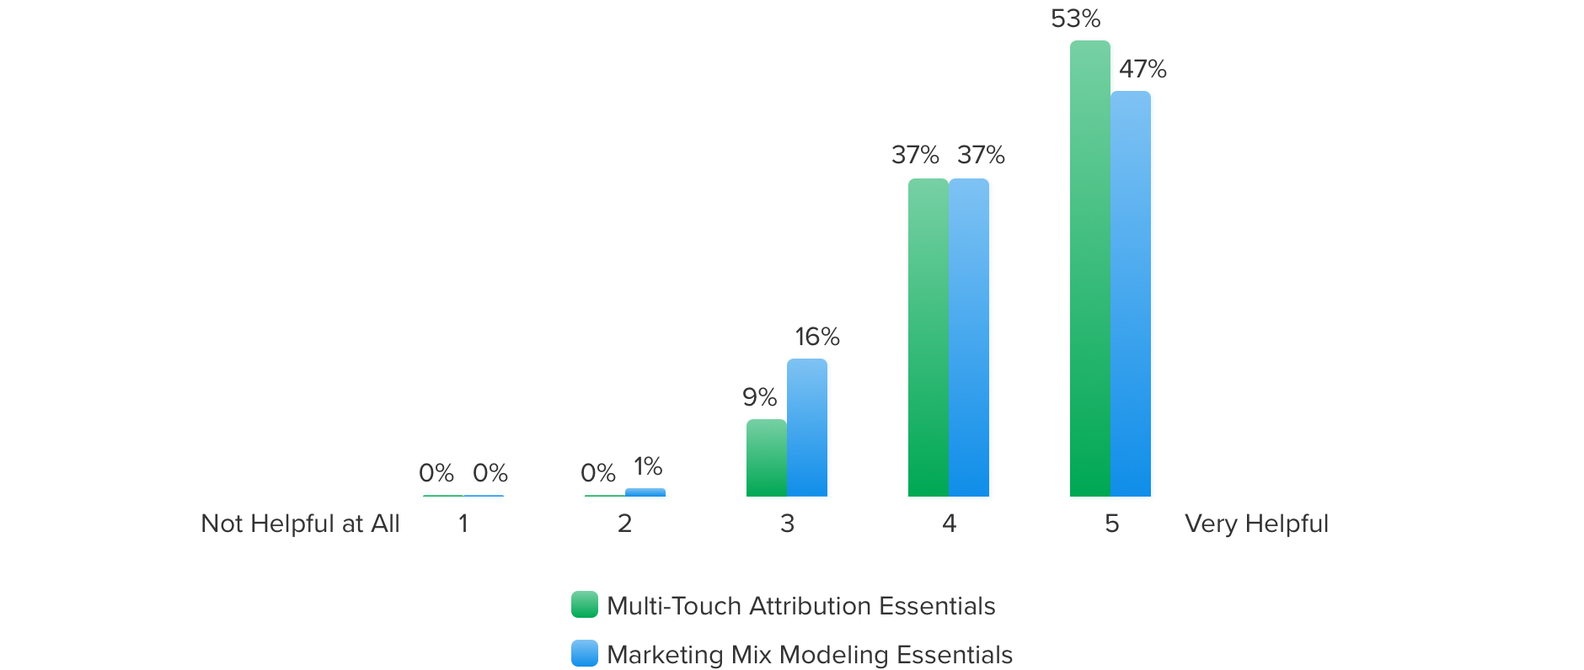
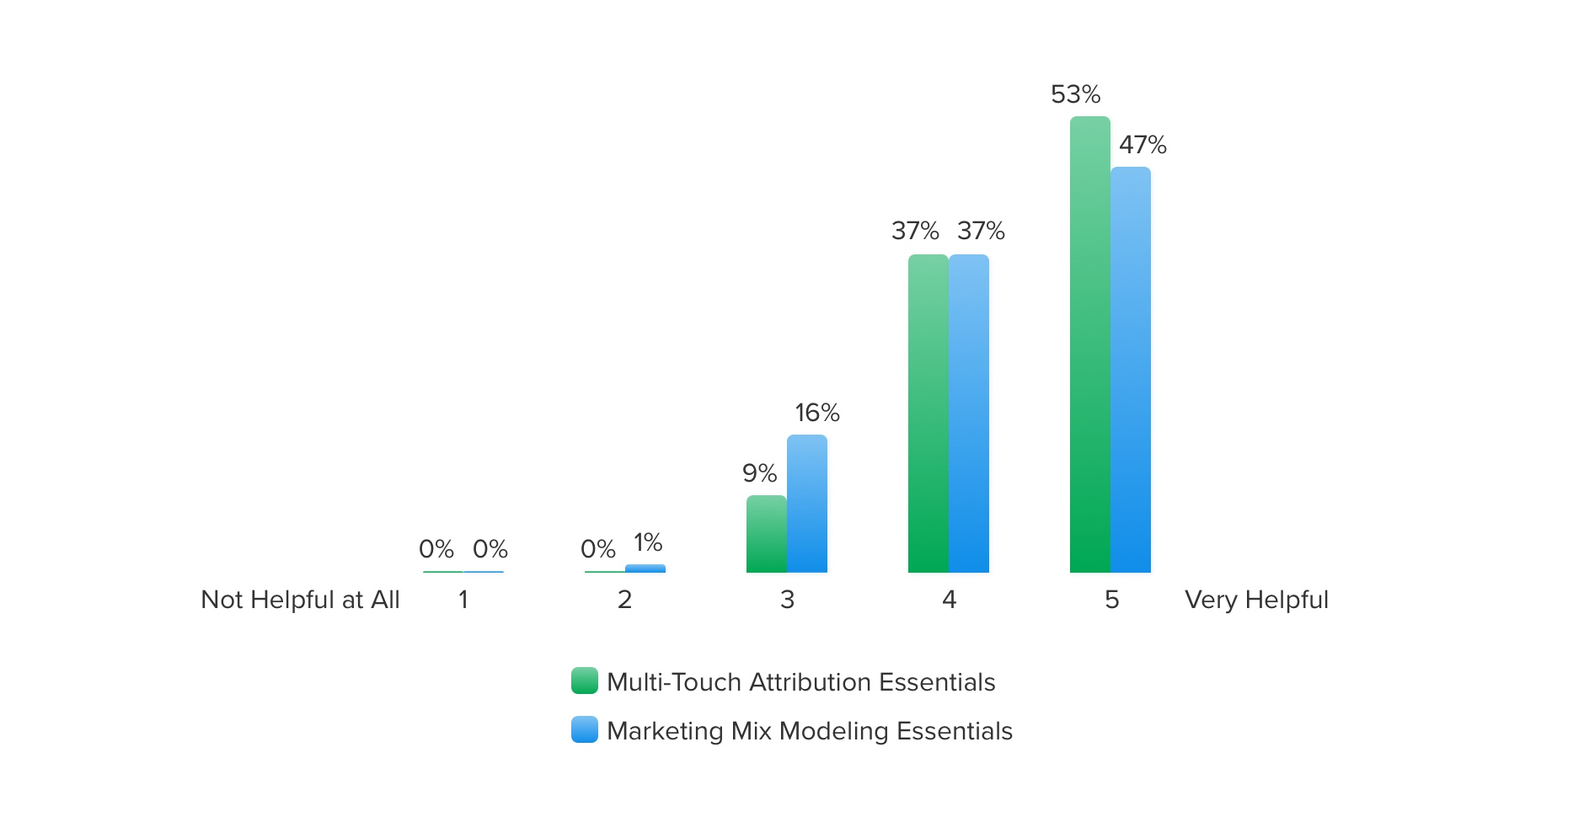
All-sans Linear type scale; Neustar survey accordion
- Back to Timeless Sans for every title (serif trial dropped)
- Text roles follow Linear's tokens: 600 titles, 18px leads, 12px meta
  labels over 14px values
- Accordion rows can reveal an image; Neustar Academy survey questions
  open to their charts (charts padded top and bottom)
- "AI native vision" card label

diff --git a/src/App.css b/src/App.css
@@ -217,12 +217,9 @@ html, body, #root { width: 100%; height: 100%; overflow: hidden; font-family: va
 
 .preloader-text {
   color: var(--ink);
-  /* The opening line is set like the titles: Timeless Serif, Text style. */
-  font-family: var(--font-serif);
-  font-variation-settings: "STYL" 100;
   font-size: 16px;
   font-weight: 500;
-  letter-spacing: -0.005em;
+  letter-spacing: -0.01em;
   text-align: center;
   opacity: 0;
   filter: blur(10px);
@@ -604,7 +601,7 @@ a:focus-visible,
 }
 .project-header h1 {
   font-family: var(--font-sans); font-size: clamp(32px, 3.5vw, 40px);
-  font-weight: 590; letter-spacing: -0.022em; line-height: 1.125; margin-bottom: 14px;
+  font-weight: 600; letter-spacing: -1px; line-height: 1.15; margin-bottom: 16px;
 }
 .project-tagline {
   font-family: var(--font-sans); font-size: 1.125rem;
@@ -620,15 +617,17 @@ a:focus-visible,
   grid-column: 1; min-width: 0;
 }
 .meta-item  { display: flex; flex-direction: column; gap: 5px; }
-.meta-label { font-family: var(--font-sans); font-size: 10px; font-weight: 700; text-transform: uppercase; letter-spacing: 0.5px; color: var(--ink-tertiary); }
-.meta-value { font-family: var(--font-sans); font-size: 14px; font-weight: 500; color: var(--ink-muted); }
+/* Linear eyebrow/caption scale: taxonomy label 12px / 500 / +0.4px over a
+   14px / 400 value in ink, so the value — not the label — carries the weight. */
+.meta-label { font-family: var(--font-sans); font-size: 12px; font-weight: 500; line-height: 1.3; text-transform: uppercase; letter-spacing: 0.4px; color: var(--ink-tertiary); }
+.meta-value { font-family: var(--font-sans); font-size: 14px; font-weight: 400; line-height: 1.5; color: var(--ink); }
 
 /* Overview paragraph — prominent intro text */
 .project-overview {
   font-family: var(--font-sans);
-  font-size: 1.0625rem;
-  line-height: 1.6; color: var(--ink-muted);
-  margin: 0 0 48px; letter-spacing: -0.012em;
+  font-size: 1.125rem;
+  line-height: 1.5; color: var(--ink-muted);
+  margin: 0 0 48px; letter-spacing: -0.1px;
   grid-column: 1; min-width: 0;
 }
 
@@ -641,15 +640,15 @@ a:focus-visible,
 .section-h2 {
   font-family: var(--font-sans);
   font-size: 1.5rem;
-  font-weight: 590; letter-spacing: -0.012em; line-height: 1.33;
-  margin-bottom: 12px;
+  font-weight: 600; letter-spacing: -0.4px; line-height: 1.3;
+  margin-bottom: 16px;
   scroll-margin-top: 64px;
 }
 
 /* H3 — sub-section heading, Linear docs Prose h3 scale */
 .section-h3 {
-  font-family: var(--font-sans); font-size: 1.25rem; font-weight: 590;
-  letter-spacing: -0.006em; line-height: 1.4;
+  font-family: var(--font-sans); font-size: 1.25rem; font-weight: 600;
+  letter-spacing: -0.2px; line-height: 1.4;
   margin-bottom: 8px; color: var(--ink);
 }
 
@@ -993,9 +992,9 @@ a:focus-visible,
   margin: 0 0 12px;
   font-family: var(--font-sans);
   font-size: clamp(1.375rem, 3vw, 1.75rem);
-  line-height: 1.3;
-  font-weight: 590;
-  letter-spacing: -0.018em;
+  line-height: 1.2;
+  font-weight: 600;
+  letter-spacing: -0.6px;
   color: var(--ink);
   scroll-margin-top: 64px;
 }
@@ -1412,6 +1411,9 @@ a:focus-visible,
 .resume-step--intro {
   min-height: calc(100vh - var(--header-h));
 }
+/* The intro paragraph is a lead (Linear body-lg 18px), one step above the
+   16px chapter descriptions. */
+.resume-step--intro .resume-description { font-size: 18px; letter-spacing: -0.1px; }
 
 .resume-step.is-active {
   opacity: 1;
@@ -1436,7 +1438,7 @@ a:focus-visible,
   color: var(--ink);
   font-family: var(--font-sans);
   font-size: clamp(40px, 4vw, 56px);
-  font-weight: 590;
+  font-weight: 600;
   letter-spacing: -1.8px;
   line-height: 1.1;
   text-wrap: balance;
@@ -1698,14 +1700,14 @@ a:focus-visible,
 }
 .ps-headline {
   max-width: 620px; margin: 0 0 24px;
-  font-family: var(--font-sans); font-size: clamp(40px, 4vw, 56px); font-weight: 590;
+  font-family: var(--font-sans); font-size: clamp(40px, 4vw, 56px); font-weight: 600;
   line-height: 1.1; letter-spacing: -1.8px; color: var(--ink); text-wrap: balance;
 }
 .ps-subline {
   /* Exactly as wide as the headline above it: zero intrinsic width so it never
      widens the (fit-content) copy block, then fills it. */
   width: 0; min-width: 100%; margin: 0;
-  font-family: var(--font-sans); font-size: 16px; line-height: 1.5; letter-spacing: -0.05px;
+  font-family: var(--font-sans); font-size: 18px; line-height: 1.5; letter-spacing: -0.1px;
   color: var(--ink-muted);
   /* Short two-line copy: balance the lines so no one- or two-word widow. */
   text-wrap: balance;
@@ -1747,7 +1749,7 @@ a:focus-visible,
 .process-story--static .ps-step.is-active { opacity: 1; }
 .ps-step-title {
   margin: 0 0 24px;
-  font-family: var(--font-sans); font-size: clamp(32px, 3vw, 40px); font-weight: 590;
+  font-family: var(--font-sans); font-size: clamp(32px, 3vw, 40px); font-weight: 600;
   line-height: 1.15; letter-spacing: -1px; color: var(--ink); text-wrap: balance;
 }
 .ps-step-block + .ps-step-block { margin-top: 12px; }
@@ -1846,10 +1848,10 @@ a:focus-visible,
 .ps-closing-copy { position: relative; z-index: 1; max-width: 760px; pointer-events: none; }
 .ps-closing-line {
   margin: 0 0 20px;
-  font-family: var(--font-sans); font-size: clamp(40px, 4vw, 56px); font-weight: 590;
+  font-family: var(--font-sans); font-size: clamp(40px, 4vw, 56px); font-weight: 600;
   line-height: 1.1; letter-spacing: -1.8px; color: var(--ink); text-wrap: balance;
 }
-.ps-closing-words { margin: 0; font-family: var(--font-sans); font-size: 15px; line-height: 1.4; color: var(--ink-subtle); }
+.ps-closing-words { margin: 0; font-family: var(--font-sans); font-size: 16px; line-height: 1.5; letter-spacing: -0.05px; color: var(--ink-subtle); }
 
 @media (max-width: 1023px) {
   .ps-headline, .ps-closing-line { font-size: clamp(32px, 8vw, 40px); }
@@ -1903,16 +1905,16 @@ a:focus-visible,
 [data-theme="light"] .contact-illustration { filter: none; }
 .contact-heading {
   font-family: var(--font-sans);
-  font-size: clamp(36px, 4vw, 48px);
-  font-weight: 590;
-  letter-spacing: -1.6px;
-  line-height: 1.1;
+  font-size: clamp(32px, 3.5vw, 40px);
+  font-weight: 600;
+  letter-spacing: -1px;
+  line-height: 1.15;
   margin-bottom: 24px;
   text-wrap: balance;
 }
 .contact-desc {
-  font-family: var(--font-sans); font-size: 15px;
-  line-height: 1.72; color: var(--ink-muted); margin-bottom: 28px;
+  font-family: var(--font-sans); font-size: 16px;
+  line-height: 1.5; letter-spacing: -0.05px; color: var(--ink-muted); margin-bottom: 28px;
 }
 .contact-bullets {
   list-style: none; margin: 0 0 36px; padding: 0;
@@ -2187,12 +2189,12 @@ a:focus-visible,
 .project-hero-title {
   font-family: var(--font-sans);
   font-size: clamp(32px, 3.5vw, 40px);
-  font-weight: 590; letter-spacing: -0.022em; line-height: 1.1;
-  color: #fff; margin-bottom: 10px;
+  font-weight: 600; letter-spacing: -1px; line-height: 1.15;
+  color: #fff; margin-bottom: 12px;
 }
 .project-hero-tagline {
   font-family: var(--font-sans); font-size: 1.125rem;
-  color: rgba(255,255,255,0.86); line-height: 1.55; letter-spacing: -0.012em;
+  color: rgba(255,255,255,0.86); line-height: 1.5; letter-spacing: -0.1px;
 }
 /* ─── Video embed ─────────────────────────────────────────────────────────────── */
 .section-video-wrap {
@@ -3344,63 +3346,3 @@ a:focus-visible,
     scroll-behavior: auto !important;
   }
 }
-
-/* ─── All titles in Timeless Serif (trial) ──────────────────────────────────
-   Every title — page and step titles, section headings, row headings —
-   uses the serif (grid card titles stay sans: tried, didn't suit); sizes and the hierarchy stay as they are. Body,
-   UI, labels/eyebrows, numbers and in-diagram text stay in Timeless Sans.
-   Serifs read better a touch lighter and less tightly tracked than the sans
-   at 590. Kept last so it wins over breakpoint rules. */
-:root { --font-display: var(--font-serif); }
-/* Display titles (≈28px and up): the serif's display style (STYL 0). */
-.resume-step h1,
-.resume-step h2,
-.ps-headline,
-.ps-step-title,
-.ps-closing-line,
-.project-hero-title,
-.project-header h1,
-.about-content h1,
-.hero-content h1,
-.contact-heading,
-.notfound-title,
-/* Smaller titles (15–24px): the serif's Text style (STYL 100), drawn for
-   reading sizes. */
-.section-h2,
-.section-h3,
-.project-case-study-title,
-.project-insight h3,
-.project-accordion-heading,
-.pd-title,
-.contact-sent-title,
-.img-page-caption-title,
-.craft-content h1 {
-  font-family: var(--font-display);
-  font-weight: 500;
-  letter-spacing: -0.012em;
-}
-.section-h2,
-.section-h3,
-.project-case-study-title,
-.project-insight h3,
-.project-accordion-heading,
-.pd-title,
-.contact-sent-title,
-.img-page-caption-title,
-.craft-content h1 {
-  font-variation-settings: "STYL" 100;
-  /* Thin serif strokes at 15–24px need a little more weight to hold their
-     own beside the sans body (400) and sans UI (590). */
-  font-weight: 560;
-  letter-spacing: -0.005em;
-}
-
-/* Quotations (a participant's own words) in project copy and in the
-   message-bubble component (user feedback quotes). */
-.project-message-bubble p,
-.section-quote {
-  font-family: var(--font-serif);
-  font-style: italic;
-  font-weight: 400;
-}
-.section-quote { color: var(--ink); }

diff --git a/src/data/portfolio.js b/src/data/portfolio.js
@@ -194,11 +194,11 @@ export const portfolioData = {
       tone: 'base',
       items: [
 
-        // ── AI-Native Vision ─────────────────────────────────────────────────
+        // ── AI native vision ─────────────────────────────────────────────────
         {
           id: 'project-ai-vision',
           type: 'page',
-          label: 'AI-Native Vision',
+          label: 'AI native vision',
           span: [2, 1],
           tone: 'base',
           content: {
@@ -1275,25 +1275,24 @@ export const portfolioData = {
                 body: 'We created surveys at the end of our courses, so we can constantly getting feedback from our learners and keep improving our courses.\n\nFor MTA Essential course, we received 276 valid responses and for MMM Essential course, we received 122 valid responses.',
               },
               {
-                heading: 'How helpful was the course in getting you the information you need?',
-                type: 'image',
-                id: 'na-chart1',
-                src: '/images/projects/na-chart-1.jpg',
-                caption: 'Survey results — overall helpfulness',
-              },
-              {
-                heading: 'On a scale of 1 to 5,how much do the on-camera shots of the narrators?',
-                type: 'image',
-                id: 'na-chart2',
-                src: '/images/projects/na-chart-2.jpg',
-                caption: 'Survey results — on-camera narrators',
-              },
-              {
-                heading: 'On a scale of 1 to 5, where 1 is too short and 5 is too long,how would you rate the length of these tutorial videos?',
-                type: 'image',
-                id: 'na-chart3',
-                src: '/images/projects/na-chart-3.jpg',
-                caption: 'Survey results — video length',
+                // Survey questions as accordion rows; each opens to its chart.
+                id: 'na-survey',
+                heading: 'Survey results',
+                type: 'accordion',
+                items: [
+                  {
+                    heading: 'How helpful was the course in getting you the information you need?',
+                    image: { id: 'na-chart1', src: '/images/projects/na-chart-1.jpg', caption: 'Survey results — overall helpfulness' },
+                  },
+                  {
+                    heading: 'On a scale of 1 to 5, how much do the on-camera shots of the narrators?',
+                    image: { id: 'na-chart2', src: '/images/projects/na-chart-2.jpg', caption: 'Survey results — on-camera narrators' },
+                  },
+                  {
+                    heading: 'On a scale of 1 to 5, where 1 is too short and 5 is too long, how would you rate the length of these tutorial videos?',
+                    image: { id: 'na-chart3', src: '/images/projects/na-chart-3.jpg', caption: 'Survey results — video length' },
+                  },
+                ],
               },
               {
                 heading: 'What was your favorite part of the course?',

diff --git a/src/components/PageView.jsx b/src/components/PageView.jsx
@@ -1284,10 +1284,7 @@ function BodyText({ text }) {
         </ol>
       );
     }
-    // A paragraph that is entirely a quotation (a participant's own words)
-    // is set as a quote: Timeless Serif italic.
-    const isQuote = /^\s*["“][\s\S]*["”]\s*$/.test(p);
-    return <p key={i} className={`section-body${isQuote ? ' section-quote' : ''}`}>{p}</p>;
+    return <p key={i} className="section-body">{p}</p>;
   });
 }
 
@@ -1405,7 +1402,7 @@ function DesignGoalCard({ s, cls, mp, isH2, onImageClick }) {
   );
 }
 
-function ProjectAccordion({ s, cls, mp, heading }) {
+function ProjectAccordion({ s, cls, mp, heading, onImageClick }) {
   const reduceMotion = useReducedMotion();
   const [openItems, setOpenItems] = useState(() => new Set());
   const [targetedItem, setTargetedItem] = useState(null);
@@ -1524,6 +1521,13 @@ function ProjectAccordion({ s, cls, mp, heading }) {
                 >
                   {item.value && <strong className="project-accordion-value">{item.value}</strong>}
                   <BodyText text={item.body} />
+                  {/* A row can reveal an image (e.g. a survey chart); it zooms
+                      into the lightbox like any section image. */}
+                  {item.image && (
+                    <ProjectImageWrap id={item.image.id} src={item.image.src} caption={item.image.caption} onImageClick={onImageClick}>
+                      <motion.img layoutId={`item-img-${item.image.id}`} data-lightbox-source={item.image.id} layoutCrossfade={false} transition={{ layout: LIGHTBOX_ZOOM }} src={asset(item.image.src)} alt={item.image.caption || item.heading || ''} className="section-image" loading="lazy" />
+                    </ProjectImageWrap>
+                  )}
                 </motion.div>
               </motion.div>
             </article>
@@ -1558,7 +1562,7 @@ function ProjectSection({ s, onImageClick, onComparisonClick }) {
   }
 
   if (s.type === 'accordion') {
-    return <ProjectAccordion s={s} cls={cls} mp={mp} heading={heading} />;
+    return <ProjectAccordion s={s} cls={cls} mp={mp} heading={heading} onImageClick={onImageClick} />;
   }
 
   if (s.type === 'message-bubbles') {

diff --git a/index.html b/index.html
@@ -9,9 +9,8 @@
     <link rel="apple-touch-icon" sizes="180x180" href="/apple-touch-icon.png" />
     <link rel="manifest" href="/site.webmanifest" />
     <meta name="theme-color" content="#010102" />
-    <!-- Timeless fonts (self-hosted; see src/App.css). Preloaded to cut the swap flash. -->
+    <!-- Timeless Sans (self-hosted; see src/App.css). Preloaded to cut the swap flash. -->
     <link rel="preload" href="/fonts/timeless/TimelessSansVF.woff2" as="font" type="font/woff2" crossorigin />
-    <link rel="preload" href="/fonts/timeless/TimelessSerifVF.woff2" as="font" type="font/woff2" crossorigin />
     <meta name="apple-mobile-web-app-title" content="Chengchang Qian" />
     <meta name="apple-mobile-web-app-capable" content="yes" />
     <meta name="viewport" content="width=device-width, initial-scale=1.0" />

diff --git a/DESIGN.md b/DESIGN.md
@@ -318,10 +318,11 @@ The page rhythm is **dense product screenshots** — Linear's marketing leads wi
 
 ### Font Family
 
-**Site fonts (implemented): the Timeless type family** (timeless.co, variable WOFF2, self-hosted).
-- **Timeless Sans** (Grotesk style, `STYL` 0; wght 300–800) replaces the sans everywhere via `--font-sans`: body, UI, labels, eyebrows, numbers, grid card titles (serif was tried on cards and rejected), and in-diagram text. Sizes, weights and the hierarchy are unchanged.
-- **Timeless Serif** (`--font-display` → `--font-serif`) sets every title except grid cards. Display titles (≈28px+: About h1/h2, Process headline/step titles/closing, project hero and header titles, Contact heading, 404) use the display style (`STYL` 0) at weight 500, -0.012em. Smaller titles (15–24px: project section h2/h3, case-study and insight titles, accordion headings, diagram scene titles, lightbox caption titles) use the Text style (`STYL` 100) at 560, -0.005em. The first-load name line is serif Text 500. Participant quotes (message bubbles, and any project paragraph that is wholly a quotation → `.section-quote`) use Timeless Serif Italic 400.
-- License (Timeless Free Font License 1.2): free to embed, but the files may not sit in a public repository — they live in the private `SherlocQ/portfolio-fonts` repo and are copied in at deploy time (see CLAUDE.md). Without them the stacks fall back to Inter / SF Pro and Georgia.
+**Site fonts (implemented): Timeless Sans** (timeless.co, variable WOFF2, self-hosted; Grotesk style, `STYL` 0, wght 300–800). It replaces the sans everywhere via `--font-sans` — titles, body, UI, labels and diagram text — keeping the Linear-style hierarchy (sizes, 590 titles / 400 body, negative display tracking) unchanged.
+- Serif was tried and rejected (2026-10): serif titles, serif card titles, serif quotes, and a Medium-style serif body all pulled the site away from the precise Linear / product voice. Stay all-sans. Timeless Serif files remain registered (`--font-serif`) but unused and are not preloaded.
+- License (Timeless Free Font License 1.2): free to embed, but the files may not sit in a public repository — they live in the private `SherlocQ/portfolio-fonts` repo and are copied in at deploy time (see CLAUDE.md). Without them the stack falls back to Inter / SF Pro.
+
+**Implemented type scale (Linear tokens, all Timeless Sans):** display-lg 40–56px / 600 / 1.10 / -1.8px (About intro title, Process headline and closing line); display-md 32–40px / 600 / 1.15 / -1px (About chapter titles, Process step titles, project hero/header titles, Contact heading); headline 28px / 600 / 1.2 / -0.6px (Full case study title); project section H2 24px / 600 / 1.3 / -0.4px with 16px below, H3 20px / 600 / 1.4 / -0.2px; lead paragraphs body-lg 18px / 400 / 1.5 / -0.1px (About intro, Process subline, project overview and hero tagline); body 16px / 400 / 1.5 / -0.05px (incl. Contact intro and Process closing words); project meta labels 12px / 500 / +0.4px uppercase `ink-tertiary` over 14px / 400 `ink` values. Grid card titles keep their own 20px / 590 card style.
 
 The Linear families below describe the reference system this design language came from.
 
@@ -617,7 +618,7 @@ Linear's depth is carried by surface ladder + hairline borders. The brand resist
 - The drawing is fully reversible: it is a pure function of the seven step progresses (played on the clock above). Writes are cached per element and skipped when unchanged, so still particles and lines cost nothing per frame. Animate only opacity, transform and stroke-dashoffset — the single exception is the four-point Bet path reshaping from the first diamond. Reduced motion: no scrubbing — each step cross-fades (180ms) to its finished state.
 - Diagram-only semantic colors, one meaning each — cool = making, warm = judgment, neutral = noise and structure (the one sanctioned exception to "no second chromatic accent", and never used in UI chrome): `diagram-wide` (cool, #9cc3ff dark / #4f86e0 light) for going wide — fans, the DD diverge halves, noise and small-fix particles; `diagram-decide` (warm, #d4913f dark / #93570f light) for narrowing down — converge lines, direction signals, decision gates, pattern links and Direction; `diagram-noise` (#62666d dark / #b3b2ba light) for noise particles. Lightness orders them in both themes (dark: cool > warm > noise; light: noise > cool > warm) so meaning survives without hue; structure uses `diagram-neutral`. Diverge, execution issues and noise used to share the cool color — never merge them again.
 
-**`project-accordion`** — Dense supporting findings or FAQ-like project details.
+**`project-accordion`** — Dense supporting findings or FAQ-like project details. A row may reveal an image (`item.image: { id, src, caption }`) under its body — e.g. Neustar Academy's survey questions open to their charts — and that image zooms into the lightbox like any section image.
 - Match the Linear Docs collapsible (docs/mcp “Common use cases”) 1:1: independent disclosure rows rather than cards, with a 1px `hairline-translucent` divider (5% white / 5% black) only *between* rows — no rule above the first or below the last row. The trigger is 56px (16px vertical padding) at every breakpoint, with a 16px `ink-quaternary` chevron in a 24px-tall slot, 8px to the left of a 15px / 24px, weight-510, -0.011em label in `ink`. No hover color change on the label. Rotate the chevron 90° over 120ms when expanded.
 - A permalink icon (16px, `ink-subtle`, `ink` on hover) sits at the row's right edge, hidden until row hover (always visible on open rows for touch). Clicking it opens the row, writes `#row-id` into the URL, copies the link, and flashes the row with a 3s highlight (`hairline` fill, `hairline-strong` border, 12px radius, inset 4px / -12px). Loading a URL with that hash opens and highlights the row.
 - Expanded content is inset 24px to align with the label, 16px bottom padding, 15px / 24px `ink-muted` copy. Panel height uses a no-overshoot spring (stiffness 830, damping 58) for both open and close; content opacity uses a 350ms spring-like curve, delayed 100ms on open and immediate on close. Multiple rows may remain open. Start every row collapsed, preserve `aria-expanded` / `aria-controls` / region labelling, and remove motion under `prefers-reduced-motion`.

diff --git a/CLAUDE.md b/CLAUDE.md
@@ -97,7 +97,8 @@ This project uses Linear's token system (NOT Anthropic's). Key values:
 - Across every project `metrics` section, labels use concise sentence-case noun phrases that name the measure directly. Do not use sentence-like labels ending in “is,” “reached,” or “spend,” and do not alter the underlying value or unit merely to restyle its label.
 
 ## Current project status — 2026-10-06
-- Site typography switched to the Timeless family (sans everywhere, serif titles except grid cards, serif italic quotes), deployed from the private fonts repo.
+- Site typography is Timeless Sans everywhere, deployed from the private fonts repo; text roles now follow the Linear type tokens (600 titles, 18px leads, 12px/500/+0.4 meta labels — see "Implemented type scale" in DESIGN.md).
+- Neustar Academy survey charts are an accordion (rows open to their chart); the chart JPGs carry 90px white padding top and bottom. The Projects card is labeled "AI native vision" (other cards are still title case). Serif titles / quotes / body were tried and rejected — stay all-sans.
 - Process step 2 skews both Double Diamond diamonds like the loops (apex at 30%: short "easy now" diverge, long "still hard" converge; labels shift with their halves; the Bet hand-over starts from the skewed diamond); annotations sit off the skewed upper edges' midpoints. Loop converge strokes match the thin diverge strokes.
 - Process Route/Settle reworked with Chengchang (and synced into ~/Downloads/AI_Native_Design_Process.md): legend `Noise / How it's built / Right problem?`; grey unsorted feedback colored on routing; direction signals wait as hollow rings; Settle plays Drop → Test next → Settle ×3 with centered labels; Route and Settle copy use bullets; subline now starts "AI doesn't make the Double Diamond obsolete." The route mask needs explicit bounds (the AI viewBox starts at y 328). Page snaps like About; text paced like About; drawing on its own clock.
 - About: "Download Résumé" is the primary accent button (same as Contact "Send message"); the intro sentence uses a comma instead of an em dash; journey photo stacks are real photos (see Journey photos).
@@ -135,7 +136,7 @@ This project uses Linear's token system (NOT Anthropic's). Key values:
 - Tab sizes (`favicon.svg`, 16/32 PNGs, `favicon.ico` with 16+32) add a 14-unit white stroke so the lines survive at 16px. Android 192/512 use the plain mark on a circle with transparent corners. `apple-touch-icon.png` is a full-bleed opaque black square (iOS rounds it). In a square the eye compares top and bottom margins, so centroid-centering reads high there: the Apple mark is centered at mark y ≈ 280, between its bounding-box center (256) and centroid (325) — `translate(77.15 60) scale(0.7)` — giving ~34/46px top/bottom margins at 180px.
 
 ## Fonts (Timeless, licensed)
-- Timeless Sans / Serif / Serif Italic variable WOFF2 are declared at the top of `src/App.css` and preloaded in `index.html`. Usage rules are under "Font Family" in DESIGN.md.
+- Timeless Sans (used) and Timeless Serif / Serif Italic (registered, unused) variable WOFF2 are declared at the top of `src/App.css`; only the Sans is preloaded in `index.html`. Usage rules are under "Font Family" in DESIGN.md.
 - The Timeless Free Font License forbids putting the font files in a public repository. Locally they live in `public/fonts/timeless/` (git-ignored, with LICENSE.pdf). For deploys they live in the private repo `SherlocQ/portfolio-fonts`; `.github/workflows/deploy.yml` checks it out with the read-only deploy key in the `FONTS_DEPLOY_KEY` Actions secret, copies the WOFF2s into `public/fonts/timeless/`, and fails the deploy if any font is missing from the input or from `dist` (the live site then keeps the previous version). Never commit the font files here. To update fonts, push new files to portfolio-fonts.
 - This repo pushes as SherlocQ through a repo-local credential helper (`gh auth token -u SherlocQ`), independent of the machine's global/keychain GitHub login.
 
